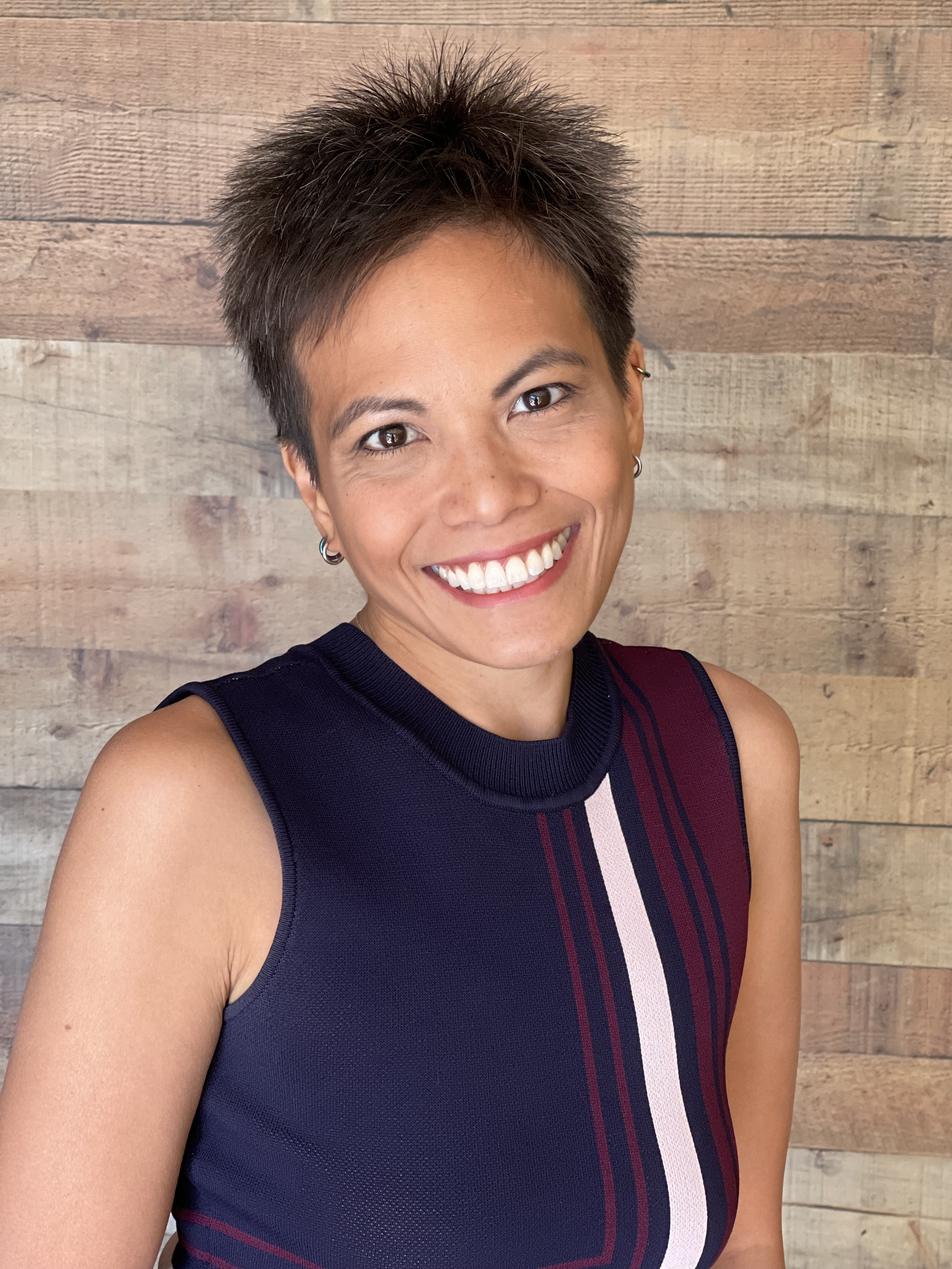
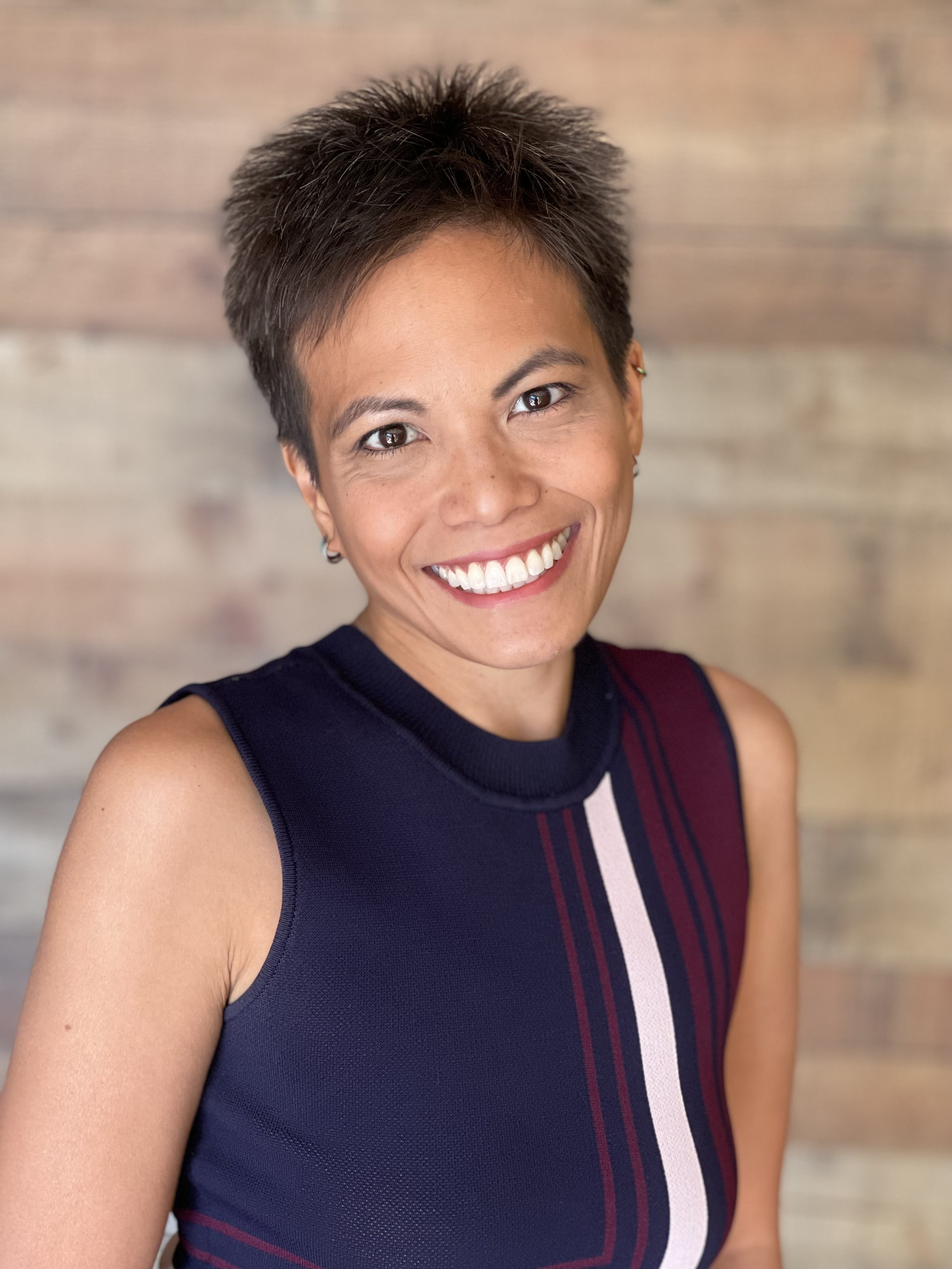
Replace headshot with blurred background version

diff --git a/about.html b/about.html
@@ -65,7 +65,7 @@
       <div class="about-portrait">
         <div class="portrait-ring">
           <div class="portrait">
-            <img src="assets/nicole-headshot.jpg" alt="Nicole de Vera" style="width:100%; height:100%; object-fit:cover; object-position:center 15%; border-radius:50%;">
+            <img src="assets/nicole-headshot.jpg" alt="Nicole de Vera" style="width:100%; height:100%; object-fit:cover; border-radius:50%;">
           </div>
           <!-- Circuit node accents -->
           <span class="pnode" style="top:-6px; left:30%"></span>
